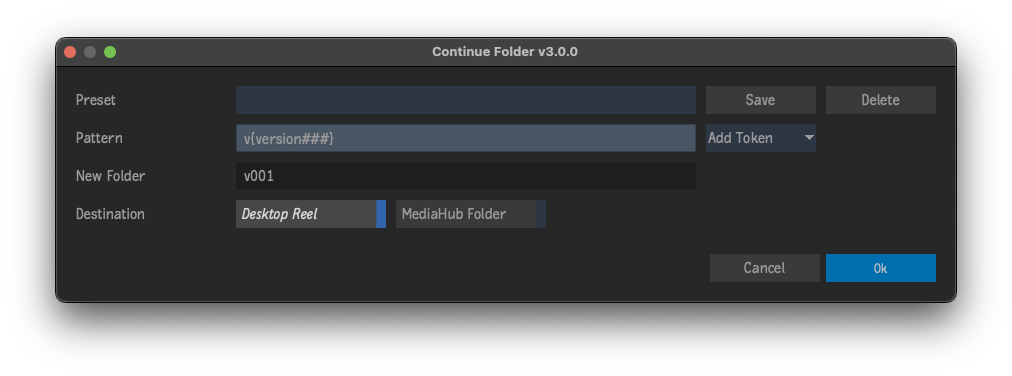
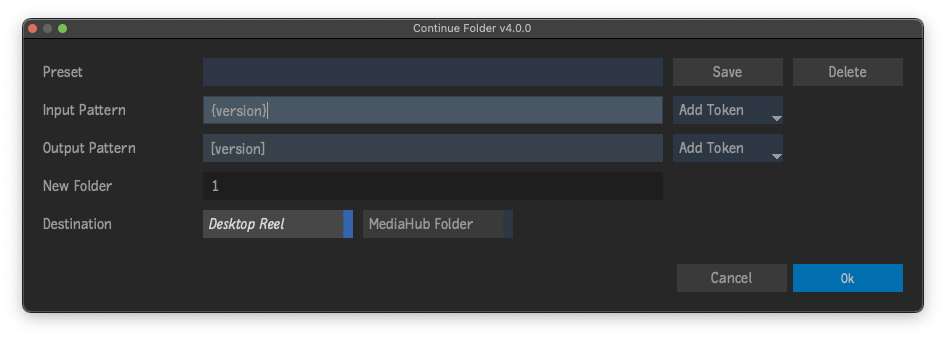
Bump version number & date of update

diff --git a/continue_folder.py b/continue_folder.py
@@ -2,13 +2,13 @@
 Script Name: Continue Folder
 Written By: Kieran Hanrahan
 
-Script Version: 3.0.0
+Script Version: 4.0.0
 Flame Version: 2025
 
 URL: http://www.github.com/khanrahan/continue-folder
 
 Creation Date: 04.10.23
-Update Date: 03.06.25
+Update Date: 10.19.26
 
 Description:
 
@@ -52,7 +52,7 @@ from continue_folder_token_store_input import InputTokenStore
 from continue_folder_token_store_output import OutputTokenStore
 
 TITLE = 'Continue Folder'
-VERSION_INFO = (3, 0, 0)
+VERSION_INFO = (4, 0, 0)
 VERSION = '.'.join(map(str, VERSION_INFO))
 TITLE_VERSION = f'{TITLE} v{VERSION}'
 MESSAGE_PREFIX = '[PYTHON]'

diff --git a/README.md b/README.md
@@ -43,6 +43,7 @@ You want to have a Library that will mirror a folder of exports on the server:
 ## Compatibility
 |Release Version|Flame Version|
 |---|---|
+|v4.X.X|Flame 2025 and newer|
 |v3.X.X|Flame 2025 and newer|
 |v2.X.X|Flame 2022 up to 2024.2|
 |v1.X.X|Flame 2021 up to 2021.2|
